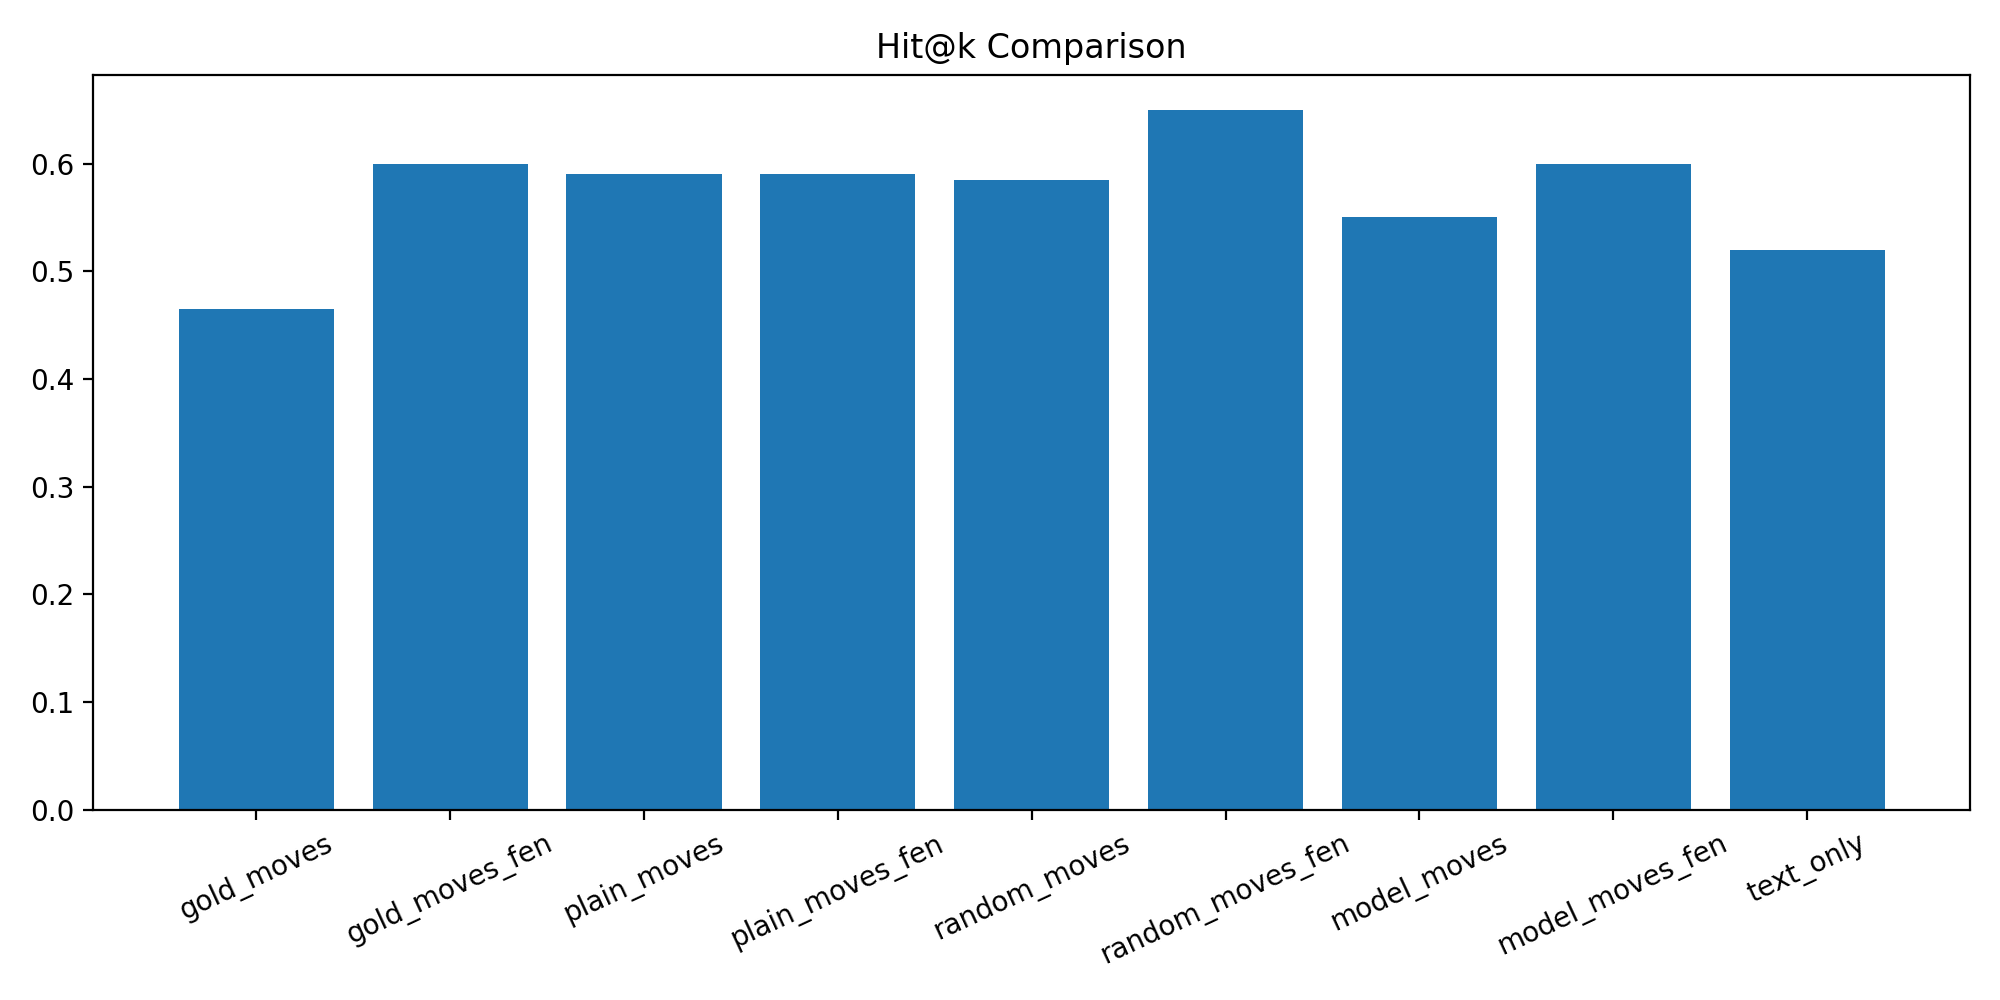
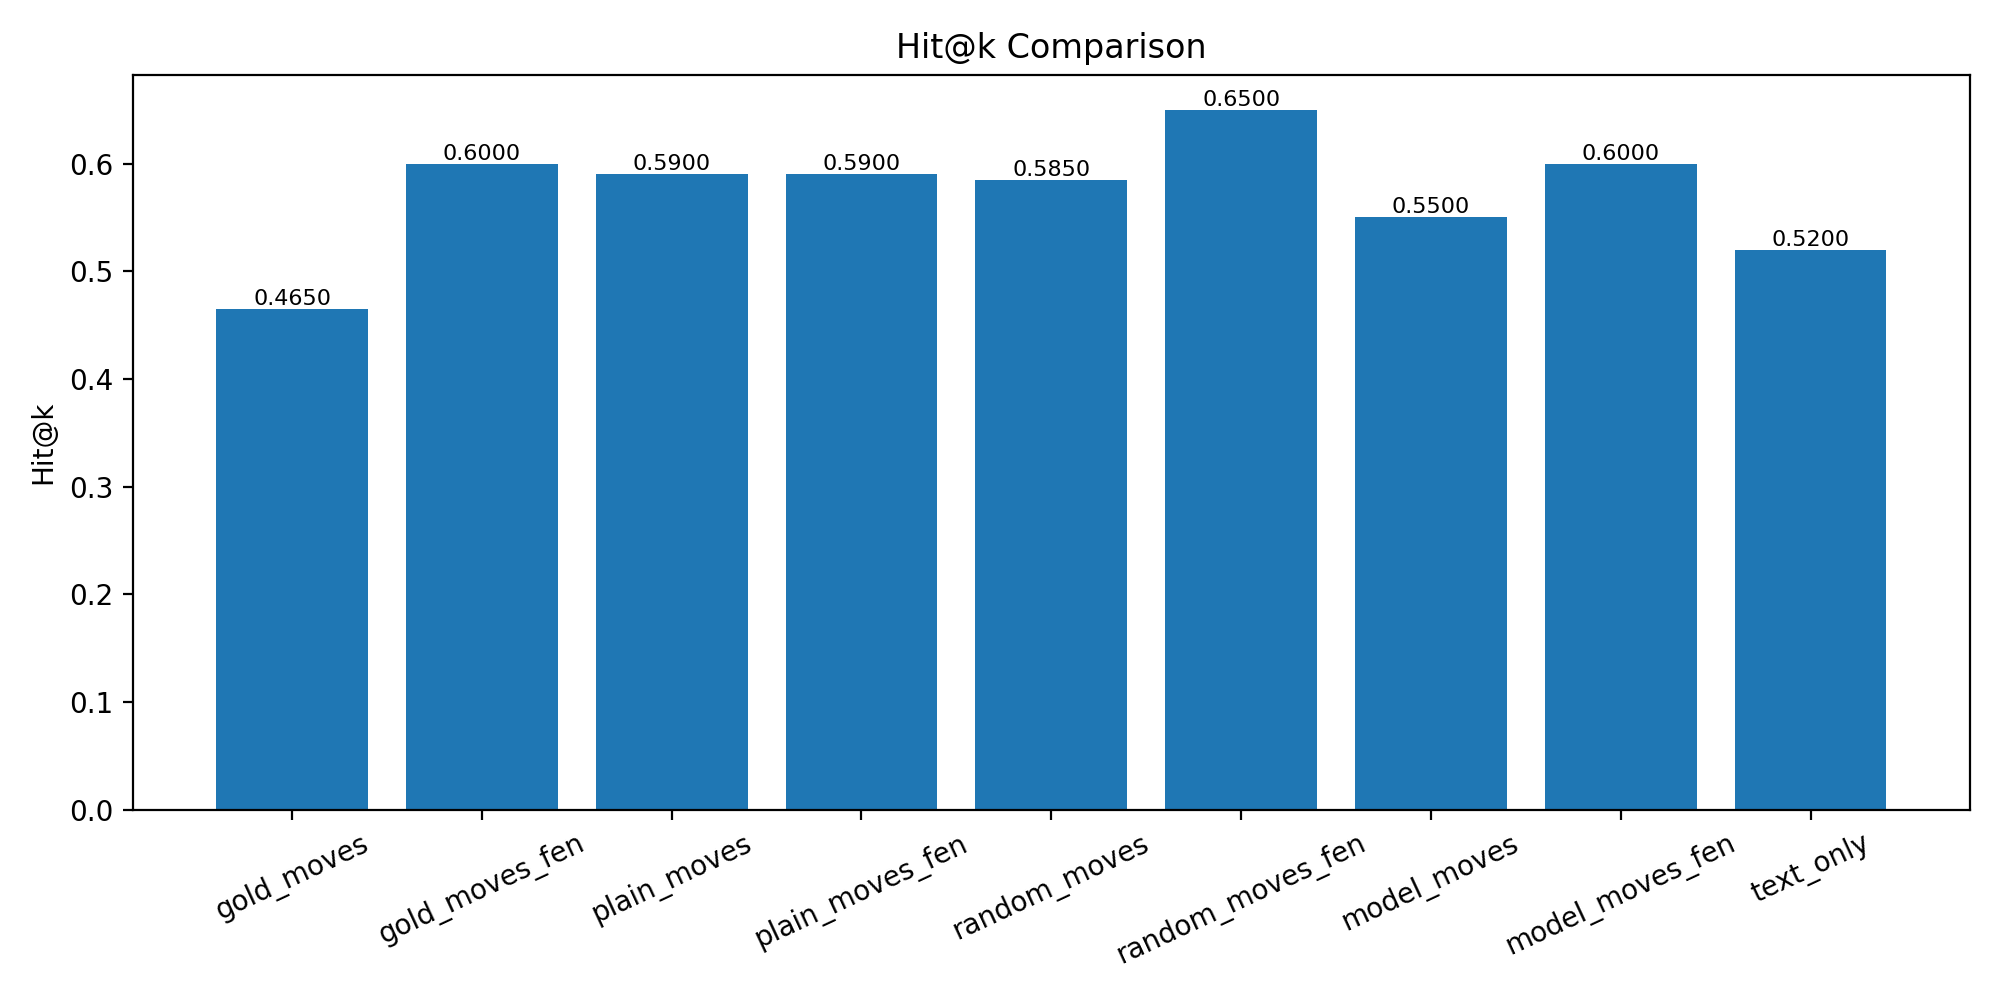
add numbers

diff --git a/metrics_scripts/plot_results_final.py b/metrics_scripts/plot_results_final.py
@@ -1,0 +1,142 @@
+import os
+import matplotlib.pyplot as plt
+
+folders = [
+    "gold_moves",
+    "gold_moves_fen",
+    "plain_moves",
+    "plain_moves_fen",
+    "random_moves",
+    "random_moves_fen",
+    "model_moves",
+    "model_moves_fen",
+    "text_only"
+]
+
+metrics = {
+    "halluc%": [36.71, 32.63, 33.89, 33.93, 30.62, 32.04, 37.40, 31.45, 21.69],
+    "R@k":     [0.1573, 0.1908, 0.1847, 0.2070, 0.2153, 0.2207, 0.1757, 0.2008, 0.1603],
+    "P@k":     [0.2273, 0.2682, 0.2548, 0.2782, 0.2969, 0.3105, 0.2636, 0.2784, 0.3492],
+    "Hit@k":   [0.4650, 0.6000, 0.5900, 0.5900, 0.5850, 0.6500, 0.5500, 0.6000, 0.5200],
+    "Top1":    [0.1800, 0.2250, 0.2300, 0.2500, 0.2200, 0.2350, 0.2350, 0.2300, 0.2200],
+    "MRR":     [0.2837, 0.3601, 0.3605, 0.3670, 0.3551, 0.3851, 0.3473, 0.3638, 0.3356],
+    "avg_cp_gap": [7135.32, 7869.41, 8668.93, 10556.72, 8222.42, 9248.75, 9695.93, 10455.27, 10488.01],
+    "secs": [141.5, 544.6, 169.8, 169.6, 165.9, 630.9, 144.3, 176.6, 124.3]
+}
+
+output_dir = "./results/final"
+os.makedirs(output_dir, exist_ok=True)
+
+
+def format_label(v):
+    if v < 1:
+        return f"{v:.4f}"
+    elif v < 100:
+        return f"{v:.2f}"
+    else:
+        return f"{v:.1f}"
+
+
+def add_bar_labels(bars):
+    for bar in bars:
+        height = bar.get_height()
+        plt.text(
+            bar.get_x() + bar.get_width() / 2,
+            height,
+            format_label(height),
+            ha="center",
+            va="bottom",
+            fontsize=8
+        )
+
+
+# -----------------------------
+# 1. Individual metric charts
+# -----------------------------
+for metric_name, values in metrics.items():
+    plt.figure(figsize=(10, 5))
+
+    bars = plt.bar(folders, values)
+
+    plt.title(metric_name)
+    plt.xlabel("Folder")
+    plt.ylabel(metric_name)
+    plt.xticks(rotation=25)
+
+    add_bar_labels(bars)
+
+    plt.tight_layout()
+    plt.savefig(os.path.join(output_dir, f"{metric_name}.png"), dpi=200)
+    plt.close()
+
+
+# -----------------------------
+# 2. FEN vs NON-FEN comparison
+# -----------------------------
+bases = ["gold", "plain", "random", "model"]
+
+for metric in ["Hit@k", "Top1", "MRR", "halluc%"]:
+    plt.figure(figsize=(8, 5))
+
+    normal_vals = []
+    fen_vals = []
+
+    for b in bases:
+        normal_idx = folders.index(f"{b}_moves")
+        fen_idx = folders.index(f"{b}_moves_fen")
+
+        normal_vals.append(metrics[metric][normal_idx])
+        fen_vals.append(metrics[metric][fen_idx])
+
+    x = range(len(bases))
+    width = 0.35
+
+    bars1 = plt.bar(
+        [i - width / 2 for i in x],
+        normal_vals,
+        width,
+        label="image"
+    )
+
+    bars2 = plt.bar(
+        [i + width / 2 for i in x],
+        fen_vals,
+        width,
+        label="image+fen"
+    )
+
+    plt.xticks(x, bases)
+    plt.title(f"{metric}: FEN vs Non-FEN")
+    plt.ylabel(metric)
+    plt.legend()
+
+    add_bar_labels(bars1)
+    add_bar_labels(bars2)
+
+    plt.tight_layout()
+    plt.savefig(os.path.join(output_dir, f"{metric}_fen_vs_nonfen.png"), dpi=200)
+    plt.close()
+
+
+# -----------------------------
+# 3. Quality comparison core metrics
+# -----------------------------
+core_metrics = ["Hit@k", "Top1", "MRR"]
+
+for metric in core_metrics:
+    plt.figure(figsize=(10, 5))
+
+    bars = plt.bar(folders, metrics[metric])
+
+    plt.title(f"{metric} Comparison")
+    plt.ylabel(metric)
+    plt.xticks(rotation=25)
+
+    add_bar_labels(bars)
+
+    plt.tight_layout()
+    plt.savefig(os.path.join(output_dir, f"{metric}_comparison.png"), dpi=200)
+    plt.close()
+
+
+print(f"Saved graphs to: {output_dir}")
